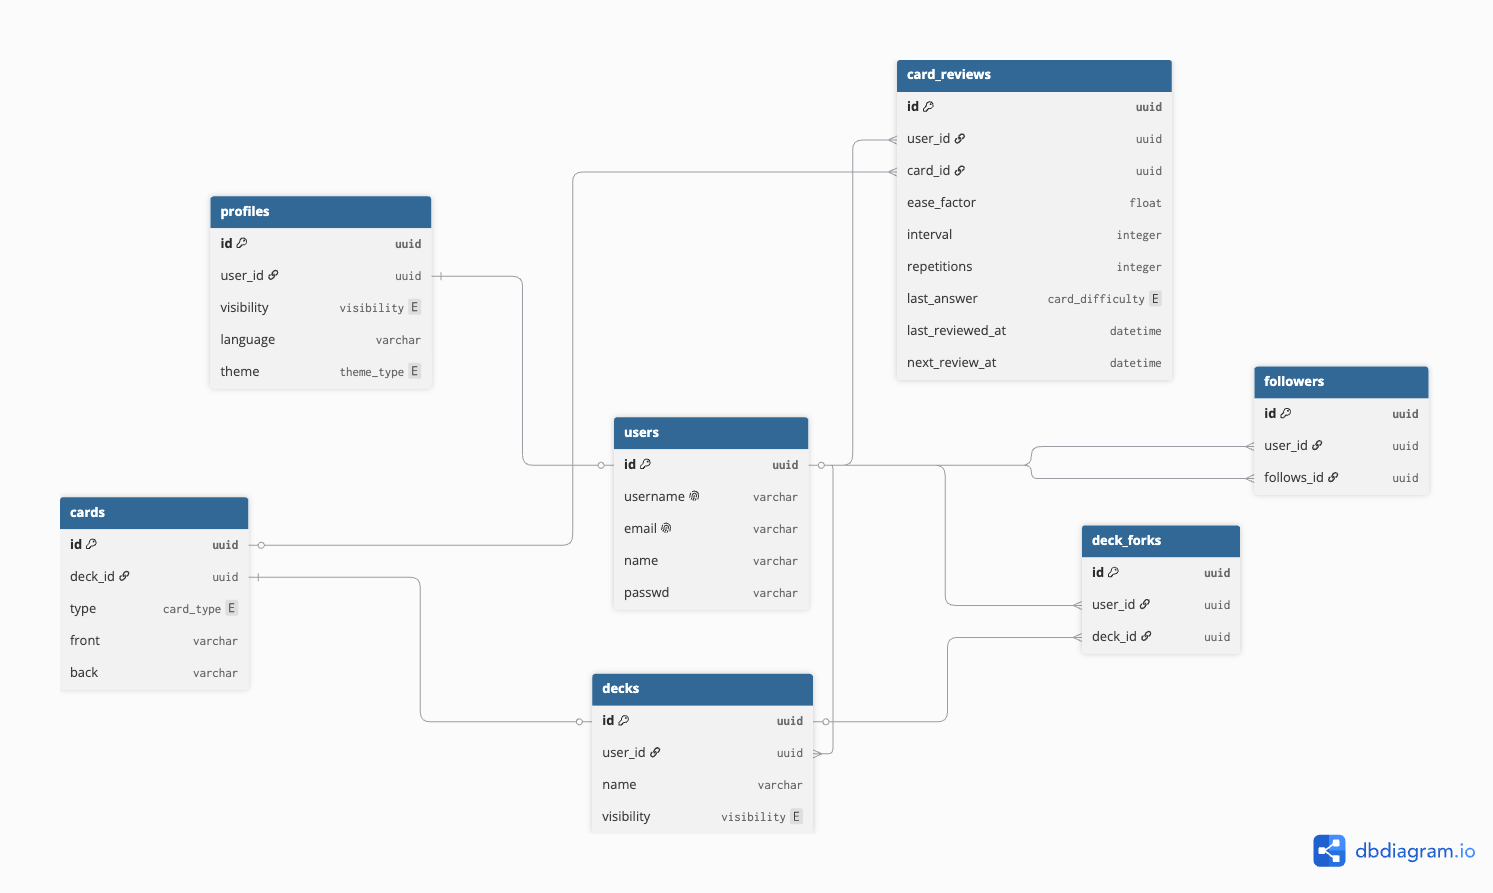
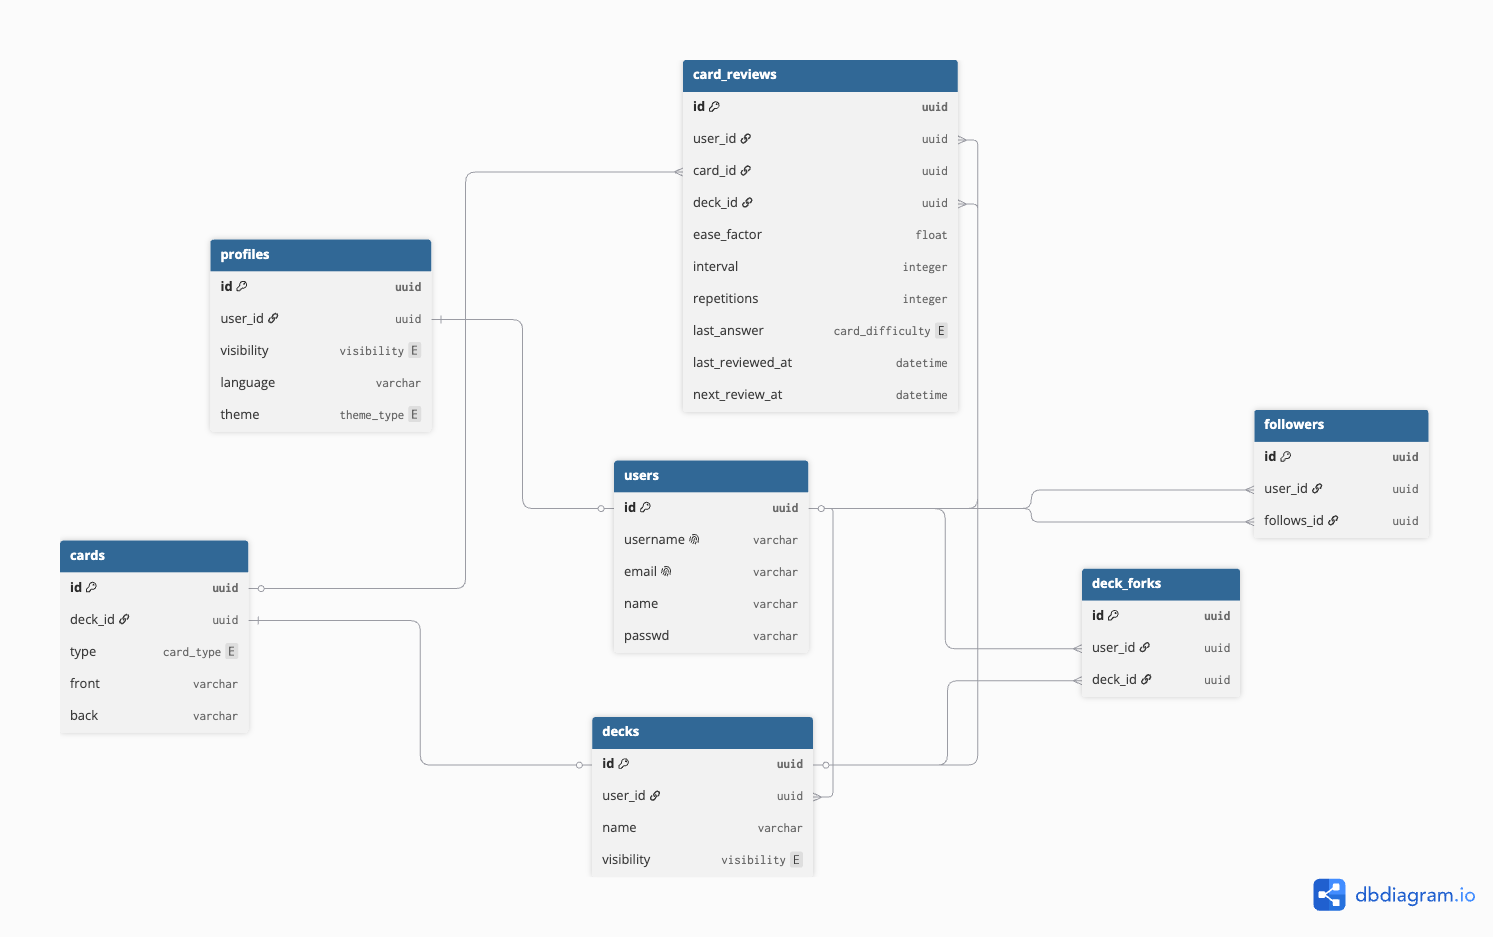
updated schema

diff --git a/DOCUMENTATION.md b/DOCUMENTATION.md
@@ -1,0 +1,42 @@
+# DOCUMENTATION
+
+## Forks 
+
+When a user forks a public deck, we support two modes: **shallow fork** and **hard copy**. The user is prompted to choose at fork time.
+
+### Shallow Fork
+
+A lightweight fork that creates a single record in the `deck_forks` table pointing to the original deck.
+
+- No duplication of deck or card records
+
+- Since `card_reviews` are scoped to `user_id`, the forking user starts with a clean review history for that deck's cards
+
+- If the user deletes the fork, we delete from `deck_forks` + `card_reviews` by `user_id` and `deck_id`
+
+- The user sees updates to the original deck automatically (new/edited/deleted cards)
+
+**Caveats:**
+- If the original owner deletes the deck, the fork record should cascade delete and the user should be notified
+- If the original owner edits or removes a card, the forking user is affected silently
+
+### Hard Copy
+
+A full duplication of the deck and all its cards, owned independently by the forking user.
+
+- New `deck` record created with `user_id` set to the forking user
+
+- All cards duplicated with new IDs pointing to the new deck
+
+- Completely independent — original deck changes have no effect
+
+### Deletion Optimization
+
+By storing `deck_id` directly on `card_reviews`, cleanup on fork deletion is a single query:
+
+```sql
+DELETE FROM card_reviews WHERE deck_id = <deck_id> AND user_id = <user_id>
+DELETE FROM deck_forks WHERE deck_id = <deck_id> AND user_id = <user_id>
+```
+
+No need to traverse individual cards.